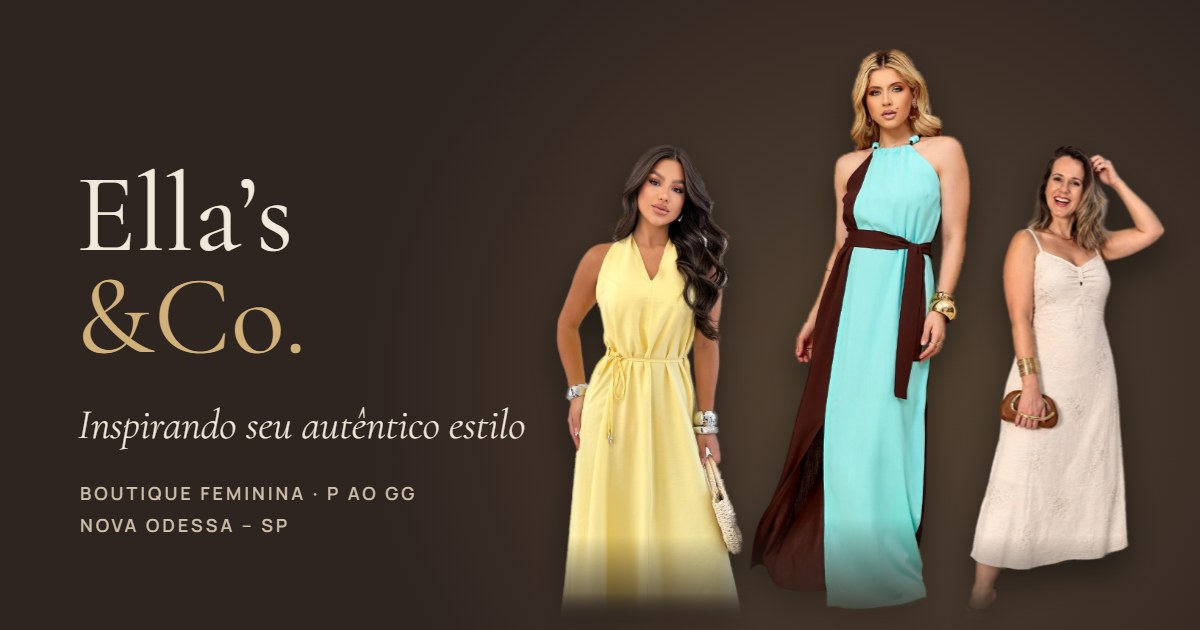
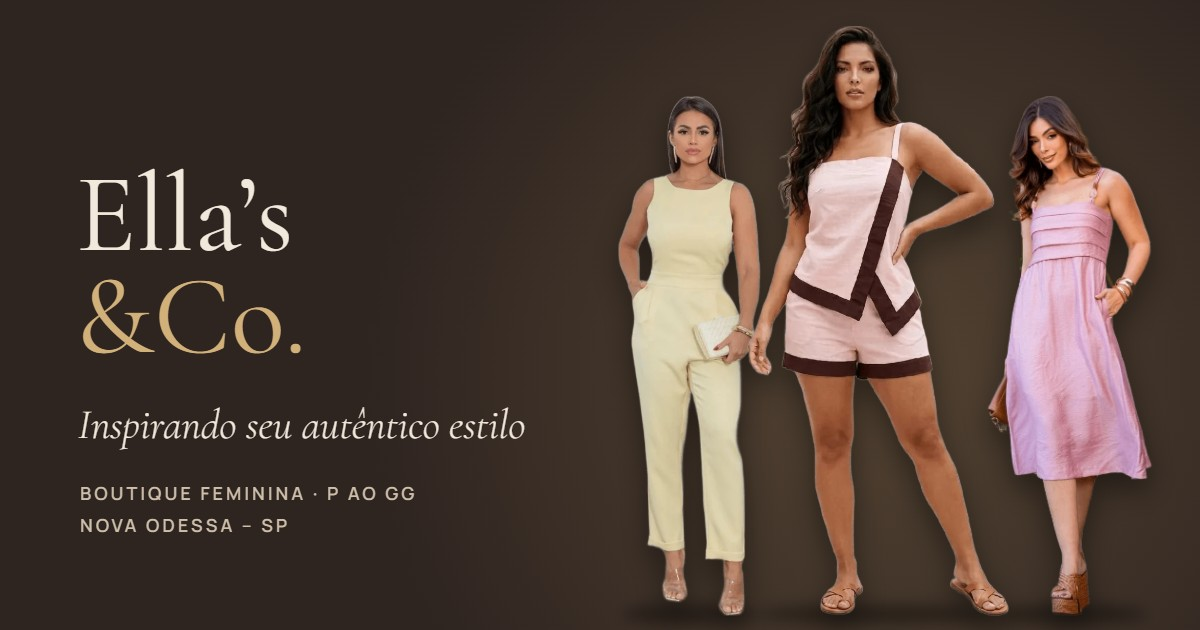
Nova imagem de previa com as fotos da loja

Changed region(s): [[0.4625, 0.0302, 0.9867, 0.9952]]

diff --git a/index.html b/index.html
@@ -12,11 +12,11 @@
   <meta property="og:locale" content="pt_BR">
   <meta property="og:site_name" content="Ella's & Co.">
   <meta property="og:url" content="https://pedroathur29.github.io/ellaseco/">
-  <meta property="og:image" content="https://pedroathur29.github.io/ellaseco/img/marca/og.jpg?v=20261127a">
+  <meta property="og:image" content="https://pedroathur29.github.io/ellaseco/img/marca/og.jpg?v=20261128a">
   <meta property="og:image:type" content="image/jpeg">
   <meta property="og:image:width" content="1200">
   <meta property="og:image:height" content="630">
-  <meta property="og:image:alt" content="Ella's & Co. — três modelos com vestidos da loja e o slogan Inspirando seu autêntico estilo">
+  <meta property="og:image:alt" content="Ella's & Co. — três modelos com peças da loja e o slogan Inspirando seu autêntico estilo">
   <meta name="twitter:card" content="summary_large_image">
   <link rel="canonical" href="https://pedroathur29.github.io/ellaseco/">
   <link rel="icon" type="image/png" sizes="48x48" href="img/marca/favicon-48.png?v=20261127a">
